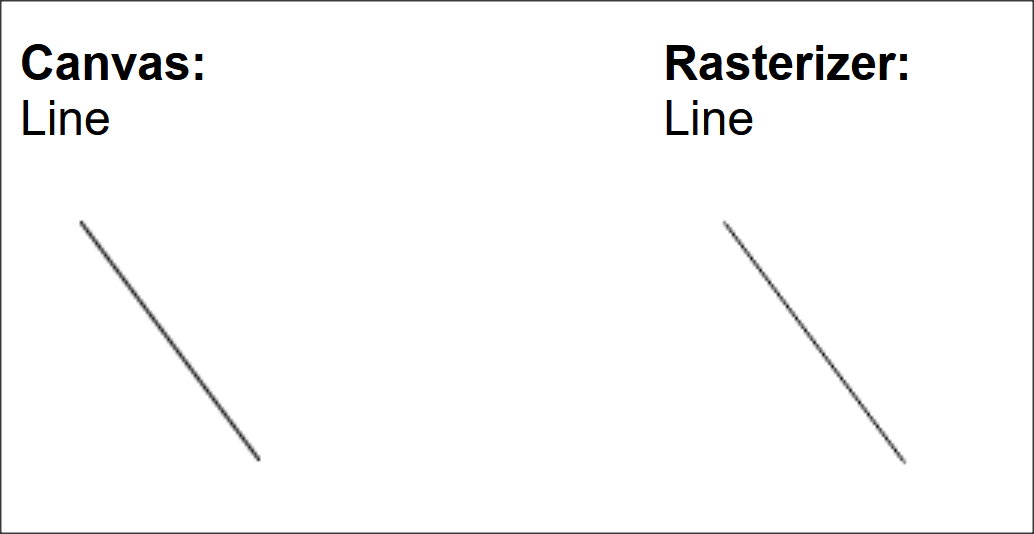
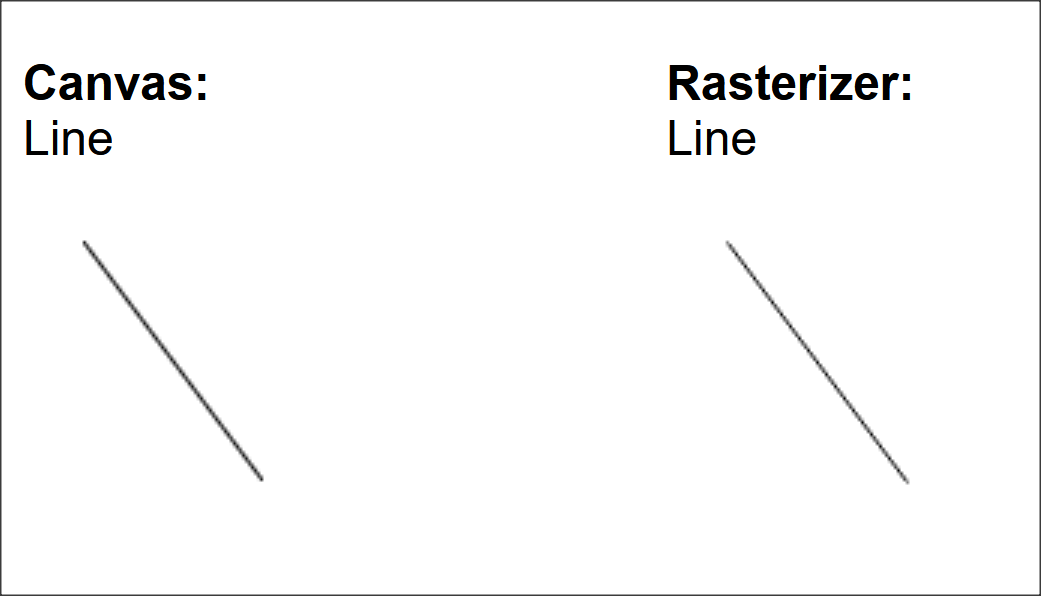
v.0.9.3
* fix wu line
* clip when needed, fix clipping
* optimize operations
* linedash and polygon/shape fill missing

diff --git a/src/Rasterizer.min.js b/src/Rasterizer.min.js
@@ -2,8 +2,8 @@
 *   Rasterizer
 *   rasterize, draw and fill lines, rectangles and curves
 *
-*   @version 0.9.2
+*   @version 0.9.3
 *   https://github.com/foo123/Rasterizer
 *
 **/
-!function(r,n,t){"use strict";"object"==typeof module&&module.exports?module.exports=t.call(r):"function"==typeof define&&define.amd&&"function"==typeof require&&"function"==typeof require.specified&&require.specified(n)?define(n,["module"],function(n){return t.call(r)}):n in r||(r[n]=t.call(r)||1)&&"function"==typeof define&&define.amd&&define(function(){return r[n]})}("undefined"!=typeof self?self:this,"Rasterizer",function(n){"use strict";var r=Object.defineProperty,Y=Math,B=Y.PI,t=1e-6,e=Y.sqrt(2),S=20,C=1,u="undefined"!=typeof Uint8ClampedArray?Uint8ClampedArray:"undefined"!=typeof Uint8Array?Uint8Array:Array;function y(h,p,o){var g=this;if(!(g instanceof y))return new y(h,p,o);var e,i=y.getRGBAFrom([0,0,0,1]),f=y.getRGBAFrom([0,0,0,1]),l="butt",a="miter",b=1,q=[],A=function(){e={}},R=function(n){for(var r in e)n((r=+r)%h,~~(r/h),e[r])},k=function(n,r,t){0<=n&&n<h&&0<=r&&r<p&&0<t&&(e[n=n+r*h]||0)<t&&(e[n]=t)},w=function(n,r,t){var e=i(n,r),u=3<e.length?e[3]:1;0<u&&o(n,r,e[0],e[1],e[2],u*t)},c=function(n,r,t){var e=f(n,r),u=3<e.length?e[3]:1;0<u&&o(n,r,e[0],e[1],e[2],u*t)};r(g,"strokeStyle",{get:function(){return""},set:function(n){i=y.getRGBAFrom(n)}}),r(g,"fillStyle",{get:function(){return""},set:function(n){f=y.getRGBAFrom(n)}}),r(g,"lineWidth",{get:function(){return b},set:function(n){0<(n=Y.abs(+n||0))&&(b=n)}}),r(g,"lineCap",{get:function(){return l},set:function(n){n=String(n).toLowerCase(),-1!==["butt","square"].indexOf(n)?l=n:s('"'+n+'" lineCap is not supported!')}}),r(g,"lineJoin",{get:function(){return a},set:function(n){n=String(n).toLowerCase(),-1!==["miter","bevel"].indexOf(n)?a=n:s('"'+n+'" lineJoin is not supported!')}}),r(g,"lineDash",{get:function(){return q.slice()},set:function(n){1&(n=[].concat(n)).length&&(n=n.concat(n)),q=n}}),g.setLineDash=function(n){g.lineDash=n},g.strokeRect=function(n,r,t,e){return 1<=t&&1<=e&&0<b&&(A(),D(k,[n,r,n+t-1,r,n+t-1,r+e-1,n,r+e-1,n,r],b,0,"butt","miter",0,0,h-1,p-1),R(w)),g},g.fillRect=function(n,r,t,e){var u,o,i,f,l,a;return 1<=t&&1<=e&&(A(),u=k,t=(n=n)+t-1,e=(r=r)+e-1,i=o=0,f=h-1,l=p-1,a=Y.min(n,t),n=Y.max(n,t),t=Y.min(r,e),r=Y.max(r,e),o<n&&a<f&&i<r&&t<l&&((a<o||f<n||t<i||l<r)&&(a=Y.max(a,o),t=Y.max(t,i),n=Y.min(n,f),r=Y.min(r,l)),G(u,Y.round(a),Y.round(t),Y.round(n),Y.round(r))),R(c)),g},g.strokePolyline=function(){return 0<b&&(A(),D(k,arguments,b,0,l,a,0,0,h-1,p-1),R(w)),g},g.strokeArc=function(n,r,t,e,u,o,i,f){var l,a,c,y,s,x,d,m,v;return 0<b&&(f=f?(d=-i-B,o):(d=o,i),A(),o=k,l=n,a=r,c=t,y=e,i=u,s=d,x=f,n=b,r=q,e=t=0,u=h-1,d=p-1,m=Y.cos(i),v=Y.sin(i),D(o,L(function(n){var n=s+n*(x-s),r=c*Y.cos(n),n=y*Y.sin(n);return[l+m*r-v*n,a+v*r+m*n]},S,C,!0),n,0,"butt","bevel",t,e,u,d),R(w)),g},g.strokeBezier=function(){var i,n,r,t,e,u,o,f;return 0<b&&4<=arguments.length&&(A(),4===arguments.length?D(k,arguments,b,0,l,a,0,0,h-1,p-1):(n=b,r=q,t=l,u=e=0,o=h-1,f=p-1,D(k,L(6<(i=arguments).length?function(n){var r=1-n,t=n*n,e=r*r,u=e*r,o=t*n,e=3*e*n,n=3*t*r;return[u*i[0]+e*i[2]+n*i[4]+o*i[6],u*i[1]+e*i[3]+n*i[5]+o*i[7]]}:function(n){var r=1-n,t=r*r,r=2*r*n,n=n*n;return[t*i[0]+r*i[2]+n*i[4],t*i[1]+r*i[3]+n*i[5]]},S,C,!0),n,0,t,"bevel",e,u,o,f)),R(w)),g}}function D(U,n,z,E,r,J,N,j,W,M){var t,e,u,o,i,T,V,H,K,f,l,Q,a,c,y,s,x,d,m,v,h,p,g,b,q,A,R,k,X,w,B,S,C,D,G,F,L,O,P,I=n.length;if(I<6)Z(U,e=n[0],u=n[1],o=n[2],i=n[3],f=Y.abs(o-e),l=Y.abs(i-u),(a=$(z,f,l))[0],a[1],r,r,N,j,W,M);else for(I-=2,t=0;t<I;t+=2)Z(U,e=n[t],u=n[t+1],o=n[t+2],i=n[t+3],f=Y.abs(o-e),l=Y.abs(i-u),(a=$(z,f,l))[0],a[1],0===t?r:null,I===t+2?r:null,N,j,W,M),1<z&&0<t&&(c=U,y=T,s=V,x=e,d=u,m=o,v=i,h=H,p=K,g=Q[0],b=Q[1],q=f,A=l,R=a[0],k=a[1],X=J,w=N,B=j,S=W,C=M,P=O=L=F=G=D=void 0,tn(p*q,A*h)||(x<y&&m<x&&(P=y,y=m,m=P,P=s,s=v,v=P,P=h,h=q,q=P,P=p,p=A,A=P,P=g,g=R,R=P,P=b,b=k,k=P),b={x:y-(q=(h=x<y?-1:1)*g),y:s+(g=(A=d<s?-1:1)*b)},y={x:y+q,y:s-g},s={x:x-q,y:d+g},q={x:x+q,y:d-g},G={x:x-(R=(g=m<x?-1:1)*R),y:d+(k=(D=v<d?-1:1)*k)},F={x:x+R,y:d-k},L={x:m-R,y:v+k},m={x:m+R,y:v-k},R={x:x,y:d},v=h==g?A==D?0===p?(O=q,F):(O=s,G):(O=s,F):(O=q,G),"bevel"===X&&(rn(c,O.x,O.y,v.x,v.y),nn(c,R.x,R.y,O.x,O.y,v.x,v.y,w,B,S,C)),"miter"===X&&(P=h==g?A==D?0===p?_(y.x,y.y,q.x,q.y,F.x,F.y,m.x,m.y):_(b.x,b.y,s.x,s.y,G.x,G.y,L.x,L.y):_(b.x,b.y,s.x,s.y,F.x,F.y,m.x,m.y):_(y.x,y.y,q.x,q.y,G.x,G.y,L.x,L.y),rn(c,O.x,O.y,P.x,P.y),rn(c,v.x,v.y,P.x,P.y),nn(c,R.x,R.y,O.x,O.y,v.x,v.y,w,B,S,C),nn(c,P.x,P.y,O.x,O.y,v.x,v.y,w,B,S,C)))),T=e,V=u,H=f,K=l,Q=a}function Z(n,r,t,e,u,o,i,f,l,a,c,y,s,x,d){var m,v=Y.min(r,e),h=Y.max(r,e),p=Y.min(t,u),g=Y.max(t,u);if(y<h&&v<x&&s<g&&p<d){if(v<y||x<h||p<s||d<g){var v=function(n,r,t,e,u,o,i,f){var t=-(t-n),l=-t,e=-(e-r),a=-e,u=n-u,i=i-n,o=r-o,f=f-r,c=1,y=0;if(!(0==t&&u<0||0==l&&i<0||0==e&&o<0||0==a&&f<0||(0!=t&&(u=u/t,i=i/l,t<0?(y<u&&(y=u),i<c&&(c=i)):(y<i&&(y=i),u<c&&(c=u))),0!=e&&(t=o/e,i=f/a,e<0?(y<t&&(y=t),i<c&&(c=i)):(y<i&&(y=i),t<c&&(c=t))),c<y)))return[n+l*y,r+a*y,n+l*c,r+a*c]}(r,t,e,u,y,s,x,d);if(!v)return;tn(r,v[0])&&tn(t,v[1])||(a=null),tn(e,v[2])&&tn(u,v[3])||(c=null),r=v[0],t=v[1],e=v[2],u=v[3]}0===f&&0===l?rn(n,r,t,e,u,o,i):(h=n,p=t,g=u,y=i,s=f,x=l,d=a,v=c,(n=e)<(t=r)&&(m=t,t=n,n=m,m=p,p=g,g=m,m=d,d=v,v=m),m=g<p?-1:1,F(u=o,0)?("square"===d&&(p-=m*s),"square"===v&&(g+=m*s),G(h,Y.round(t-s),Y.round(p),Y.round(t+s),Y.round(g))):F(y,0)?("square"===d&&(t-=+x),"square"===v&&(n+=+x),G(h,Y.round(t),Y.round(p-x),Y.round(n),Y.round(p+x))):("square"===d&&(t-=+x,p-=m*s),"square"===v&&(n+=+x,g+=m*s),d={x:n-(u=+s),y:g+(y=m*x)},v={x:n+u,y:g-y},rn(h,(s={x:t-u,y:p+y}).x,s.y,(m={x:t+u,y:p-y}).x,m.y),rn(h,m.x,m.y,v.x,v.y),rn(h,v.x,v.y,d.x,d.y),rn(h,d.x,d.y,s.x,s.y),nn(h,s.x,s.y,m.x,m.y,d.x,d.y),nn(h,m.x,m.y,d.x,d.y,v.x,v.y)))}}function $(n,r,t){return n<=1?[0,0]:F(r,0)?[(n-1)/2,0]:F(t,0)?[0,(n-1)/2]:[t*(n=(n-1)/2)/(t=f(r,t)),r*n/t]}function _(n,r,t,e,u,o,i,f){var l=e-r,a=n-t,t=t*r-n*e,r=f-o,n=u-i,e=i*o-u*f,i=l*n-a*r;return!tn(i,0)&&{x:(a*e-t*n)/i,y:(t*r-l*e)/i}}function G(n,r,t,e,u){var o,i;if(e<r&&(o=r,r=e,e=o),u<t&&(i=t,t=u,u=i),t===u)for(o=r;o<=e;++o)n(o,t,1);else if(r===e)for(i=t;i<=u;++i)n(r,i,1);else for(i=t;i<=u;++i)for(o=r;o<=e;++o)n(o,i,1)}function nn(n,r,t,e,u,o,i,f,l,a,c){var y,s,x,d,m,v,h,p,g,b,q,A,R,k,w=null!=f;if(u<t&&(x=t,t=u,u=x,x=r,r=e,e=x),i<t&&(x=t,t=i,i=x,x=r,r=o,o=x),i<u&&(x=u,u=i,i=x,x=e,e=o,o=x),F(b=i-t,0))return d=Y.round(t),G(n,y=Y.round(Y.min(r,e,o)),d,s=Y.round(Y.max(r,e,o)),d);for(A=i-u,h=o-r,p=e-r,g=o-e,R=F(q=u-t,0),k=F(A,0),d=Y.round(t+.5),m=Y.round(u),v=Y.round(i-.5),w&&(d=Y.max(l,d),v=Y.min(c,v));d<=v;++d)if(s=d<m?R?(y=r,e):(y=h*(d-t)/b+r,p*(d-t)/q+r):k?(y=e,o):(y=h*(d-t)/b+r,g*(d-u)/A+e),!tn(y,s))for(s<y&&(x=y,y=s,s=x),y=Y.round(y+.5),s=Y.round(s-.5),w&&(y=Y.max(f,y),s=Y.min(a,s));y<=s;++y)n(y,d,1)}function rn(n,r,t,e,u,o,i){if(null==o&&(o=Y.abs(e-r),i=Y.abs(u-t)),F(o,0)||F(i,0))return G(n,Y.round(r),Y.round(t),Y.round(e),Y.round(u));var f,l,a,c,y,s=0,x=0,d=0,m=0,v=0,h=0,p=0;if(e<r&&(f=r,r=e,e=f,l=t,t=u,u=l),y=u<t?-1:1,f=r,l=t,a=e,c=u,r=Y.round(f),t=Y.round(l),e=Y.round(a),u=Y.round(c),o<i)for(x=f+(s=+o/i),v=1-(l+.5-t),h=1-(c+.5-u),m=1-(d=f-r),f=r,l=t,d*=v,m*=v;;){if(0<m&&n(f,l,m),0<d&&n(f+1,l,d),l===u)return;m=1-(d=x-(p=Y.floor(x))),(l+=y)===u?(f=e,d*=h,m*=h):f=p,x+=s}else for(x=l+(s=y*i/o),v=1-(f+.5-r),h=1-(a+.5-e),m=1-(d=l-t),f=r,l=t,d*=v,m*=v;;){if(0<m&&n(f,l,m),0<d&&n(f,l+1,d),f===e)return;m=1-(d=x-(p=Y.floor(x))),(f+=1)===e?(l=u,d*=h,m*=h):l=p,x+=s}}function s(n){throw new Error(n)}function x(n,r,t){return Y.min(Y.max(n,r),t)}function tn(n,r){return Y.abs(n-r)<t}function F(n,r){return Y.abs(n-r)<Number.EPSILON}function f(n,r){n=Y.abs(n),r=Y.abs(r);var t=0;return F(n,0)?r:F(r,0)?n:r<n?n*Y.sqrt(1+(t=r/n)*t):n<r?r*Y.sqrt(1+(t=n/r)*t):n*e}function c(n,r,t){var e=r[0],r=r[1],u=t[0],t=t[1],o=n[0],n=n[1],u=u-e,t=t-r,i=f(u,t);return F(i,0)?f(o-e,n-r):Y.abs(u*(r-n)-t*(e-o))/i}function L(n,r,t,e){null==r&&(r=S),null==t&&(t=C);var u,o,i=[];if(e)for(o=n(0),i.push(o[0],o[1]),u=0;u<r;++u)!function n(r,t,e,u,o,i,f){if(u<=e||tn(e,u))return;var l=(e+u)/2,i=i||t(e),f=f||t(u),a=t(l);c(a,i,f)<=o?r.push(f[0],f[1]):(n(r,t,e,l,o,i,a),n(r,t,l,u,o,a,f))}(i,n,0===u?0:u/r,r===u+1?1:(u+1)/r,t,null,null);else for(u=0;u<=r;++u)o=n(0===u?0:r===u?1:u/r),i.push(o[0],o[1]);return i}return y.VERSION="0.9.2",y.prototype={constructor:y,strokeStyle:null,fillStyle:null,lineWidth:null,lineCap:null,lineJoin:null,lineDash:null,setLineDash:null,strokeRect:null,fillRect:null,strokePolyline:null,strokeArc:null,strokeBezier:null},y.createImageData=function(n,r){return{data:new u(n*r<<2),width:n,height:r}},y.getRGBAFrom=function(t){var e;return"function"==typeof t?function(n,r){n=t(n,r);return[n[0],n[1],n[2],3<n.length?n[3]/255:1]}:(e=[t[0],t[1],t[2],3<t.length?t[3]:1],function(n,r){return e})},y.setRGBATo=function(i){var c,y,s;return"function"==typeof i?function(n,r,t,e,u,o){0<o&&i(n,r,t,e,u,o)}:(c=i.width,y=i.height,s=i.data,function(n,r,t,e,u,o){var i,f,l,a;0<=n&&n<c&&0<=r&&r<y&&0<o&&(r=s[n=n+c*r<<2],i=s[1+n],f=s[2+n],0<(a=(o=o)+(l=s[3+n]/255)*(1-o)))&&(s[n]=x(Y.round((t*o+r*l*(1-o))/a),0,255),s[1+n]=x(Y.round((e*o+i*l*(1-o))/a),0,255),s[2+n]=x(Y.round((u*o+f*l*(1-o))/a),0,255),s[3+n]=x(Y.round(255*a),0,255))})},y});
+!function(r,n,t){"use strict";"object"==typeof module&&module.exports?module.exports=t.call(r):"function"==typeof define&&define.amd&&"function"==typeof require&&"function"==typeof require.specified&&require.specified(n)?define(n,["module"],function(n){return t.call(r)}):n in r||(r[n]=t.call(r)||1)&&"function"==typeof define&&define.amd&&define(function(){return r[n]})}("undefined"!=typeof self?self:this,"Rasterizer",function(n){"use strict";var r=Object.defineProperty,Y=Math,B=Y.PI,t=1e-6,e=Y.sqrt(2),C=20,D=1,u="undefined"!=typeof Uint8ClampedArray?Uint8ClampedArray:"undefined"!=typeof Uint8Array?Uint8Array:Array;function c(p,h,o){var g=this;if(!(g instanceof c))return new c(p,h,o);var e,i=c.getRGBAFrom([0,0,0,1]),l=c.getRGBAFrom([0,0,0,1]),b="butt",f="miter",q=1,A=[],R=function(){e={}},k=function(n){for(var r in e){var t=e[r],r=r.split(",");n(+r[0],+r[1],t)}},S=function(n,r,t){0<=n&&n<p&&0<=r&&r<h&&0<t&&(n=String(n)+","+String(r),(e[n]||0)<t)&&(e[n]=t)},w=function(n,r,t){var e=i(n,r),u=3<e.length?e[3]:1;0<u&&o(n,r,e[0],e[1],e[2],u*t)},a=function(n,r,t){var e=l(n,r),u=3<e.length?e[3]:1;0<u&&o(n,r,e[0],e[1],e[2],u*t)};r(g,"strokeStyle",{get:function(){return""},set:function(n){i=c.getRGBAFrom(n)}}),r(g,"fillStyle",{get:function(){return""},set:function(n){l=c.getRGBAFrom(n)}}),r(g,"lineWidth",{get:function(){return q},set:function(n){0<(n=Y.abs(+n||0))&&(q=n)}}),r(g,"lineCap",{get:function(){return b},set:function(n){n=String(n).toLowerCase(),-1!==["butt","square"].indexOf(n)?b=n:s('"'+n+'" lineCap is not supported!')}}),r(g,"lineJoin",{get:function(){return f},set:function(n){n=String(n).toLowerCase(),-1!==["miter","bevel"].indexOf(n)?f=n:s('"'+n+'" lineJoin is not supported!')}}),r(g,"lineDash",{get:function(){return A.slice()},set:function(n){1&(n=[].concat(n)).length&&(n=n.concat(n)),A=n}}),g.setLineDash=function(n){g.lineDash=n},g.strokeRect=function(n,r,t,e){return 1<=t&&1<=e&&0<q&&(R(),G(S,[n,r,n+t-1,r,n+t-1,r+e-1,n,r+e-1,n,r],q,0,"butt","miter",0,0,p-1,h-1),k(w)),g},g.fillRect=function(n,r,t,e){var u,o,i,l;return 1<=t&&1<=e&&(R(),t=n+t-1,e=(r=r)+e-1,o=u=0,i=p-1,l=h-1,F(S,Y.round(n),Y.round(r),Y.round(t),Y.round(e),u,o,i,l),k(a)),g},g.strokePolyline=function(){return 0<q&&(R(),G(S,arguments,q,0,b,f,0,0,p-1,h-1),k(w)),g},g.strokeArc=function(n,r,t,e,u,o,i,l){var f,a,c,s,d,y,x,m,v;return 0<q&&(l=l?(x=-i-B,o):(x=o,i),R(),o=S,f=n,a=r,c=t,s=e,i=u,d=x,y=l,n=q,r=A,t=b,u=e=0,x=p-1,l=h-1,m=Y.cos(i),v=Y.sin(i),G(o,L(function(n){var n=d+n*(y-d),r=c*Y.cos(n),n=s*Y.sin(n);return[f+m*r-v*n,a+v*r+m*n]},C,D,!0),n,0,t,"bevel",e,u,x,l),k(w)),g},g.strokeBezier=function(){var i,n,r,t,e,u,o,l;return 0<q&&4<=arguments.length&&(R(),4===arguments.length?G(S,arguments,q,0,b,f,0,0,p-1,h-1):(n=q,r=A,t=b,u=e=0,o=p-1,l=h-1,G(S,L(6<(i=arguments).length?function(n){var r=1-n,t=n*n,e=r*r,u=e*r,o=t*n,e=3*e*n,n=3*t*r;return[u*i[0]+e*i[2]+n*i[4]+o*i[6],u*i[1]+e*i[3]+n*i[5]+o*i[7]]}:function(n){var r=1-n,t=r*r,r=2*r*n,n=n*n;return[t*i[0]+r*i[2]+n*i[4],t*i[1]+r*i[3]+n*i[5]]},C,D,!0),n,0,t,"bevel",e,u,o,l)),k(w)),g}}function G(U,n,z,E,r,J,N,j,W,M){var t,e,u,o,i,T,V,H,K,l,f,Q,a,c,s,d,y,x,m,v,p,h,g,b,q,A,R,k,X,S,w,B,C,D,G,F,L,O,P,I=n.length;if(I<6)Z(U,e=n[0],u=n[1],o=n[2],i=n[3],l=Y.abs(o-e),f=Y.abs(i-u),(a=$(z,l,f))[0],a[1],r,r,N,j,W,M);else for(I-=2,t=0;t<I;t+=2)Z(U,e=n[t],u=n[t+1],o=n[t+2],i=n[t+3],l=Y.abs(o-e),f=Y.abs(i-u),(a=$(z,l,f))[0],a[1],0===t?r:null,I===t+2?r:null,N,j,W,M),1<z&&0<t&&(c=U,s=T,d=V,y=e,x=u,m=o,v=i,p=H,h=K,g=Q[0],b=Q[1],q=l,A=f,R=a[0],k=a[1],X=J,S=N,w=j,B=W,C=M,P=O=L=F=G=D=void 0,tn(h*q,A*p)||(y<s&&m<y&&(P=s,s=m,m=P,P=d,d=v,v=P,P=p,p=q,q=P,P=h,h=A,A=P,P=g,g=R,R=P,P=b,b=k,k=P),b={x:s-(q=(p=y<s?-1:1)*g),y:d+(g=(A=x<d?-1:1)*b)},s={x:s+q,y:d-g},d={x:y-q,y:x+g},q={x:y+q,y:x-g},G={x:y-(R=(g=m<y?-1:1)*R),y:x+(k=(D=v<x?-1:1)*k)},F={x:y+R,y:x-k},L={x:m-R,y:v+k},m={x:m+R,y:v-k},R={x:y,y:x},v=p==g?A==D?en(h,0)?(O=q,F):(O=d,G):(O=d,F):(O=q,G),"bevel"===X?(rn(c,O.x,O.y,v.x,v.y,null,null,S,w,B,C),nn(c,R.x,R.y,O.x,O.y,v.x,v.y,S,w,B,C)):"miter"===X&&(P=p==g?A==D?en(h,0)?_(s.x,s.y,q.x,q.y,F.x,F.y,m.x,m.y):_(b.x,b.y,d.x,d.y,G.x,G.y,L.x,L.y):_(b.x,b.y,d.x,d.y,F.x,F.y,m.x,m.y):_(s.x,s.y,q.x,q.y,G.x,G.y,L.x,L.y),rn(c,O.x,O.y,P.x,P.y,null,null,S,w,B,C),rn(c,v.x,v.y,P.x,P.y,null,null,S,w,B,C),nn(c,R.x,R.y,O.x,O.y,v.x,v.y,S,w,B,C),nn(c,P.x,P.y,O.x,O.y,v.x,v.y,S,w,B,C)))),T=e,V=u,H=l,K=f,Q=a}function Z(n,r,t,e,u,o,i,l,f,a,c,s,d,y,x){var m;0===l&&0===f?rn(n,r,t,e,u,o,i,s,d,y,x):(n=n,t=t,u=u,i=i,l=l,f=f,a=a,c=c,s=s,d=d,y=y,x=x,(e=e)<(r=r)&&(m=r,r=e,e=m,m=t,t=u,u=m,m=a,a=c,c=m),m=u<t?-1:1,en(o=o,0)?("square"===a&&(t-=m*l),"square"===c&&(u+=m*l),F(n,Y.round(r-l),Y.round(t),Y.round(r+l),Y.round(u),s,d,y,x)):en(i,0)?("square"===a&&(r-=+f),"square"===c&&(e+=+f),F(n,Y.round(r),Y.round(t-f),Y.round(e),Y.round(t+f),s,d,y,x)):("square"===a&&(r-=+f,t-=m*l),"square"===c&&(e+=+f,u+=m*l),i=e-(o=+l),c=u+(a=m*f),l=e+o,m=u-a,rn(n,f=r-o,e=t+a,u=r+o,r=t-a,null,null,s,d,y,x),rn(n,u,r,l,m,null,null,s,d,y,x),rn(n,l,m,i,c,null,null,s,d,y,x),rn(n,i,c,f,e,null,null,s,d,y,x),nn(n,f,e,u,r,i,c,s,d,y,x),nn(n,u,r,i,c,l,m,s,d,y,x)))}function $(n,r,t){return n<=1?[0,0]:en(r,0)?[(n-1)/2,0]:en(t,0)?[0,(n-1)/2]:[t*(n=(n-1)/2)/(t=l(r,t)),r*n/t]}function _(n,r,t,e,u,o,i,l){var f=e-r,a=n-t,t=t*r-n*e,r=l-o,n=u-i,e=i*o-u*l,i=f*n-a*r;return!tn(i,0)&&{x:(a*e-t*n)/i,y:(t*r-f*e)/i}}function F(n,r,t,e,u,o,i,l,f){var a,c;if(e<r&&(a=r,r=e,e=a),u<t&&(c=t,t=u,u=c),null!=o){if(e<o||l<r||u<i||f<t)return;r=Y.max(r,o),t=Y.max(t,i),e=Y.min(e,l),u=Y.min(u,f)}if(t===u)for(a=r;a<=e;++a)n(a,t,1);else if(r===e)for(c=t;c<=u;++c)n(r,c,1);else for(c=t;c<=u;++c)for(a=r;a<=e;++a)n(a,c,1)}function nn(n,r,t,e,u,o,i,l,f,a,c){var s,d,y,x,m,v,p,h,g,b,q,A,R,k,S=null!=l;if(u<t&&(y=t,t=u,u=y,y=r,r=e,e=y),i<t&&(y=t,t=i,i=y,y=r,r=o,o=y),i<u&&(y=u,u=i,i=y,y=e,e=o,o=y),en(b=i-t,0))return x=Y.round(t),F(n,s=Y.round(Y.min(r,e,o)),x,d=Y.round(Y.max(r,e,o)),x,l,f,a,c);for(A=i-u,p=o-r,h=e-r,g=o-e,R=en(q=u-t,0),k=en(A,0),x=Y.round(t+.5),m=Y.round(u),v=Y.round(i-.5),S&&(x=Y.max(f,x),v=Y.min(c,v));x<=v;++x)if(d=x<m?R?(s=r,e):(s=p*(x-t)/b+r,h*(x-t)/q+r):k?(s=e,o):(s=p*(x-t)/b+r,g*(x-u)/A+e),Y.abs(d-s)<1)(!S||l<=s&&s<=a)&&n(Y.round(s),x,1);else for(d<s&&(y=s,s=d,d=y),s=Y.round(s+.5),d=Y.round(d-.5),S&&(s=Y.max(l,s),d=Y.min(a,d));s<=d;++s)n(s,x,1)}function rn(n,r,t,e,u,o,i,l,f,a,c){var s=Y.min(r,e),d=Y.max(r,e),y=Y.min(t,u),x=Y.max(t,u);if(!(d<l||a<s||x<f||c<y)){if(null==o&&(o=Y.abs(e-r),i=Y.abs(u-t)),s<l||a<d||y<f||c<x){s=function(n,r,t,e,u,o,i,l){var f=-(t=-(t-n)),a=-(e=-(e-r)),u=n-u,i=i-n,o=r-o,l=l-r,c=1,s=0;if(!(0==t&&u<0||0==f&&i<0||0==e&&o<0||0==a&&l<0||(0!=t&&(u=u/t,i=i/f,t<0?(s<u&&(s=u),i<c&&(c=i)):(s<i&&(s=i),u<c&&(c=u))),0!=e&&(t=o/e,i=l/a,e<0?(s<t&&(s=t),i<c&&(c=i)):(s<i&&(s=i),t<c&&(c=t))),c<s)))return[n+f*s,r+a*s,n+f*c,r+a*c]}(r,t,e,u,l,f,a,c);if(!s)return;r=s[0],t=s[1],e=s[2],u=s[3]}if(en(o,0)||en(i,0))return F(n,Y.round(r),Y.round(t),Y.round(e),Y.round(u));var m,v,p,h,g=0,b=0,q=0,d=o<i;if(d&&(m=r,r=t,t=m,m=e,e=u,u=m,m=o,o=i,i=m),e<r&&(m=r,r=e,e=m,v=t,t=u,u=v),x=t+(h=(u<t?-1:1)*i/o)*((y=Y.round(r))-r),l=1-(r+.5-Y.floor(r+.5)),f=y,q=1-(b=x-(a=Y.floor(x))),d?(n(a,f,q*l),n(a+1,f,b*l)):(n(f,a,q*l),n(f,a+1,b*l)),g=x+h,x=u+h*((y=Y.round(e))-e),l=e+.5-Y.floor(e+.5),p=y,q=1-(b=x-(c=Y.floor(x))),d?(n(c,p,q*l),n(c+1,p,b*l)):(n(p,c,q*l),n(p,c+1,b*l)),d)for(m=f+1;m<p;++m)0<(q=1-(b=g-(v=Y.floor(g))))&&n(v,m,q),0<b&&n(v+1,m,b),g+=h;else for(m=f+1;m<p;++m)0<(q=1-(b=g-(v=Y.floor(g))))&&n(m,v,q),0<b&&n(m,v+1,b),g+=h}}function s(n){throw new Error(n)}function y(n,r,t){return Y.min(Y.max(n,r),t)}function tn(n,r){return Y.abs(n-r)<t}function en(n,r){return Y.abs(n-r)<Number.EPSILON}function l(n,r){n=Y.abs(n),r=Y.abs(r);var t=0;return en(n,0)?r:en(r,0)?n:r<n?n*Y.sqrt(1+(t=r/n)*t):n<r?r*Y.sqrt(1+(t=n/r)*t):n*e}function d(n,r,t){var e=r[0],r=r[1],u=t[0],t=t[1],o=n[0],n=n[1],u=u-e,t=t-r,i=l(u,t);return en(i,0)?l(o-e,n-r):Y.abs(u*(r-n)-t*(e-o))/i}function L(n,r,t,e){null==r&&(r=C),null==t&&(t=D);var u,o,i=[];if(e)for(o=n(0),i.push(o[0],o[1]),u=0;u<r;++u)!function n(r,t,e,u,o,i,l){if(u<=e||tn(e,u))return;var f=(e+u)/2,i=i||t(e),l=l||t(u),a=t(f);d(a,i,l)<=o?r.push(l[0],l[1]):(n(r,t,e,f,o,i,a),n(r,t,f,u,o,a,l))}(i,n,0===u?0:u/r,r===u+1?1:(u+1)/r,t,null,null);else for(u=0;u<=r;++u)o=n(0===u?0:r===u?1:u/r),i.push(o[0],o[1]);return i}return c.VERSION="0.9.3",c.prototype={constructor:c,strokeStyle:null,fillStyle:null,lineWidth:null,lineCap:null,lineJoin:null,lineDash:null,setLineDash:null,strokeRect:null,fillRect:null,strokePolyline:null,strokeArc:null,strokeBezier:null},c.createImageData=function(n,r){return{data:new u(n*r<<2),width:n,height:r}},c.getRGBAFrom=function(t){var e;return"function"==typeof t?function(n,r){n=t(n,r);return[n[0],n[1],n[2],3<n.length?n[3]/255:1]}:(e=[t[0],t[1],t[2],3<t.length?t[3]:1],function(n,r){return e})},c.setRGBATo=function(i){var c,s,d;return"function"==typeof i?function(n,r,t,e,u,o){0<o&&i(n,r,t,e,u,o)}:(c=i.width,s=i.height,d=i.data,function(n,r,t,e,u,o){var i,l,f,a;0<=n&&n<c&&0<=r&&r<s&&0<o&&(r=d[n=n+c*r<<2],i=d[1+n],l=d[2+n],0<(a=(o=o)+(f=d[3+n]/255)*(1-o)))&&(d[n]=y(Y.round((t*o+r*f*(1-o))/a),0,255),d[1+n]=y(Y.round((e*o+i*f*(1-o))/a),0,255),d[2+n]=y(Y.round((u*o+l*f*(1-o))/a),0,255),d[3+n]=y(Y.round(255*a),0,255))})},c});

diff --git a/src/Rasterizer.js b/src/Rasterizer.js
@@ -610,13 +610,30 @@ function wu_line(set_pixel, xs, ys, xe, ye, dx, dy, xmin, ymin, xmax, ymax)
 
     // Wu's line algorithm
     // https://en.wikipedia.org/wiki/Xiaolin_Wu%27s_line_algorithm
-    var x, y, xx, yy,
-        sx = 1, sy = 1,
-        gradient = 0, intersect = 0,
-        fpart = 0, rfpart = 0,
-        gap1 = 0, gap2 = 0,
-        i = 0, e = 0.5;
+    var x, y,
+        x1, x2,
+        y1, y2,
+        xend, yend,
+        gradient = 0,
+        intersect = 0,
+        fpart = 0,
+        rfpart = 0,
+        gap = 0,
+        e = 0.5,
+        steep = dy > dx;
 
+    if (steep)
+    {
+        x = xs;
+        xs = ys;
+        ys = x;
+        x = xe;
+        xe = ye;
+        ye = x;
+        x = dx;
+        dx = dy;
+        dy = x;
+    }
     if (xs > xe)
     {
         x = xs;
@@ -626,76 +643,71 @@ function wu_line(set_pixel, xs, ys, xe, ye, dx, dy, xmin, ymin, xmax, ymax)
         ys = ye;
         ye = y;
     }
-    sx = 1;
-    sy = ys > ye ? -1 : 1;
 
-    x = xs;
-    y = ys;
-    xx = xe;
-    yy = ye;
+    gradient = (ys > ye ? -1 : 1)*dy/dx;
 
-    xs = stdMath.round(x);
-    ys = stdMath.round(y);
-    xe = stdMath.round(xx);
-    ye = stdMath.round(yy);
-
-    if (dy > dx)
+    // handle first endpoint
+    xend = stdMath.round(xs);
+    yend = ys + gradient * (xend - xs);
+    gap = 1 - (xs + e - stdMath.floor(xs + e));
+    x1 = xend;
+    y1 = stdMath.floor(yend);
+    fpart = yend - y1;
+    rfpart = 1 - fpart;
+    if (steep)
     {
-        gradient = sx*dx/dy;
-        intersect = x + gradient;
-        gap1 = 1 - (y + e - ys);
-        gap2 = 1 - (yy + e - ye);
-        fpart = x - xs;
-        rfpart = 1 - fpart;
-        x = xs;
-        y = ys;
-        fpart *= gap1;
-        rfpart *= gap1;
-        for (;;)
+        set_pixel(y1, x1, rfpart*gap);
+        set_pixel(y1 + 1, x1, fpart*gap);
+    }
+    else
+    {
+        set_pixel(x1, y1, rfpart*gap);
+        set_pixel(x1, y1 + 1, fpart*gap);
+    }
+
+    intersect = yend + gradient;
+
+    // handle second endpoint
+    xend = stdMath.round(xe);
+    yend = ye + gradient * (xend - xe);
+    gap = xe + e - stdMath.floor(xe + e);
+    x2 = xend;
+    y2 = stdMath.floor(yend);
+    fpart = yend - y2;
+    rfpart = 1 - fpart;
+    if (steep)
+    {
+        set_pixel(y2, x2, rfpart*gap);
+        set_pixel(y2 + 1, x2, fpart*gap);
+    }
+    else
+    {
+        set_pixel(x2, y2, rfpart*gap);
+        set_pixel(x2, y2 + 1, fpart*gap);
+    }
+
+    // main loop
+    if (steep)
+    {
+        for (x=x1+1; x<x2; ++x)
         {
-            if (0 < rfpart) set_pixel(x, y, rfpart);
-            if (0 < fpart) set_pixel(x + 1, y, fpart);
-            if (sy*(yy - y) < 1) return;
-            i = stdMath.floor(intersect);
-            fpart = intersect - i;
+            y = stdMath.floor(intersect);
+            fpart = intersect - y;
             rfpart = 1 - fpart;
-            y += sy;
-            x = i;
-            if (sy*(yy - y) < 1)
-            {
-                fpart *= gap2;
-                rfpart *= gap2;
-            }
+            if (0 < rfpart) set_pixel(y, x, rfpart);
+            if (0 < fpart) set_pixel(y + 1, x, fpart);
             intersect += gradient;
         }
     }
     else
     {
-        gradient = sy*dy/dx;
-        intersect = y + gradient;
-        gap1 = 1 - (x + e - xs);
-        gap2 = 1 - (xx + e - xe);
-        fpart = y - ys;
-        rfpart = 1 - fpart;
-        x = xs;
-        y = ys;
-        fpart *= gap1;
-        rfpart *= gap1;
-        for (;;)
+        for (x=x1+1; x<x2; ++x)
         {
+            y = stdMath.floor(intersect);
+            fpart = intersect - y;
+            rfpart = 1 - fpart;
             if (0 < rfpart) set_pixel(x, y, rfpart);
             if (0 < fpart) set_pixel(x, y + 1, fpart);
-            if (xx - x < 1) return;
-            i = stdMath.floor(intersect);
-            fpart = intersect - i;
-            rfpart = 1 - fpart;
-            x += sx;
-            y = i;
-            if (xx - x < 1)
-            {
-                fpart *= gap2;
-                rfpart *= gap2;
-            }
             intersect += gradient;
         }
     }

diff --git a/test/lines.html b/test/lines.html
@@ -271,8 +271,8 @@ function drawGradientBezier(c, lw, ld, lc)
 }
 
 drawLine(20, 20, 80, 100);
-drawGradientLine(20, 20, 120, 80, 20, [], 'square');
-drawPolyline(60, 20, 20, 20, 20, 60, 20, [], 'square', 'bevel');
+drawGradientLine(6, 20, 120, 100, 20, [/*4, 10*/], 'square');
+drawPolyline(60, 20, 20, 20, 20, 60, 20, [/*10, 10*/], 'butt', 'bevel');
 drawPolyline(10, 10, 60, 10, 60, 60, 20, [], 'butt', 'bevel');
 drawPolyline(20, 10, 20, 60, 60, 60, 20, [], 'butt', 'bevel');
 drawPolyline(60, 10, 60, 60, 10, 60, 20, [], 'butt', 'bevel');
